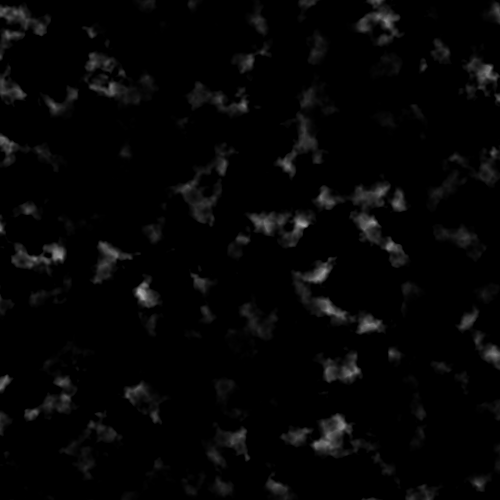
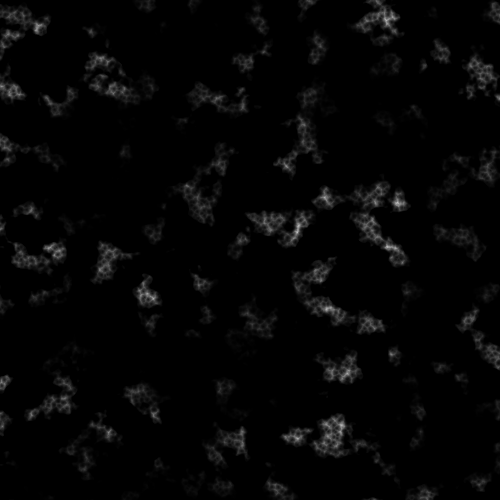
Made mountains and landmass higher

diff --git a/src/main/java/me/alexng/worldGen/NoiseHelper.java b/src/main/java/me/alexng/worldGen/NoiseHelper.java
@@ -23,11 +23,11 @@ public class NoiseHelper {
 		noise.SetNoiseType(FastNoiseLite.NoiseType.OpenSimplex2);
 		noise.SetRotationType3D(FastNoiseLite.RotationType3D.ImproveXYPlanes);
 		noise.SetSeed(seed);
-		noise.SetFrequency(0.000125f);
+		noise.SetFrequency(0.00125f);
 
 		noise.SetFractalType(FastNoiseLite.FractalType.FBm);
 		noise.SetFractalOctaves(6);
-		noise.SetFractalLacunarity(2);
+		noise.SetFractalLacunarity(3);
 		noise.SetFractalGain(0.5f);
 		noise.SetFractalWeightedStrength(0);
 		noise.SetFractalPingPongStrength(2);
@@ -103,7 +103,7 @@ public class NoiseHelper {
 		noise.SetNoiseType(FastNoiseLite.NoiseType.Cellular);
 		noise.SetRotationType3D(FastNoiseLite.RotationType3D.None);
 		noise.SetSeed(seed);
-		noise.SetFrequency(0.003f);
+		noise.SetFrequency(0.009f);
 
 		noise.SetFractalType(FastNoiseLite.FractalType.Ridged);
 		noise.SetFractalOctaves(2);
